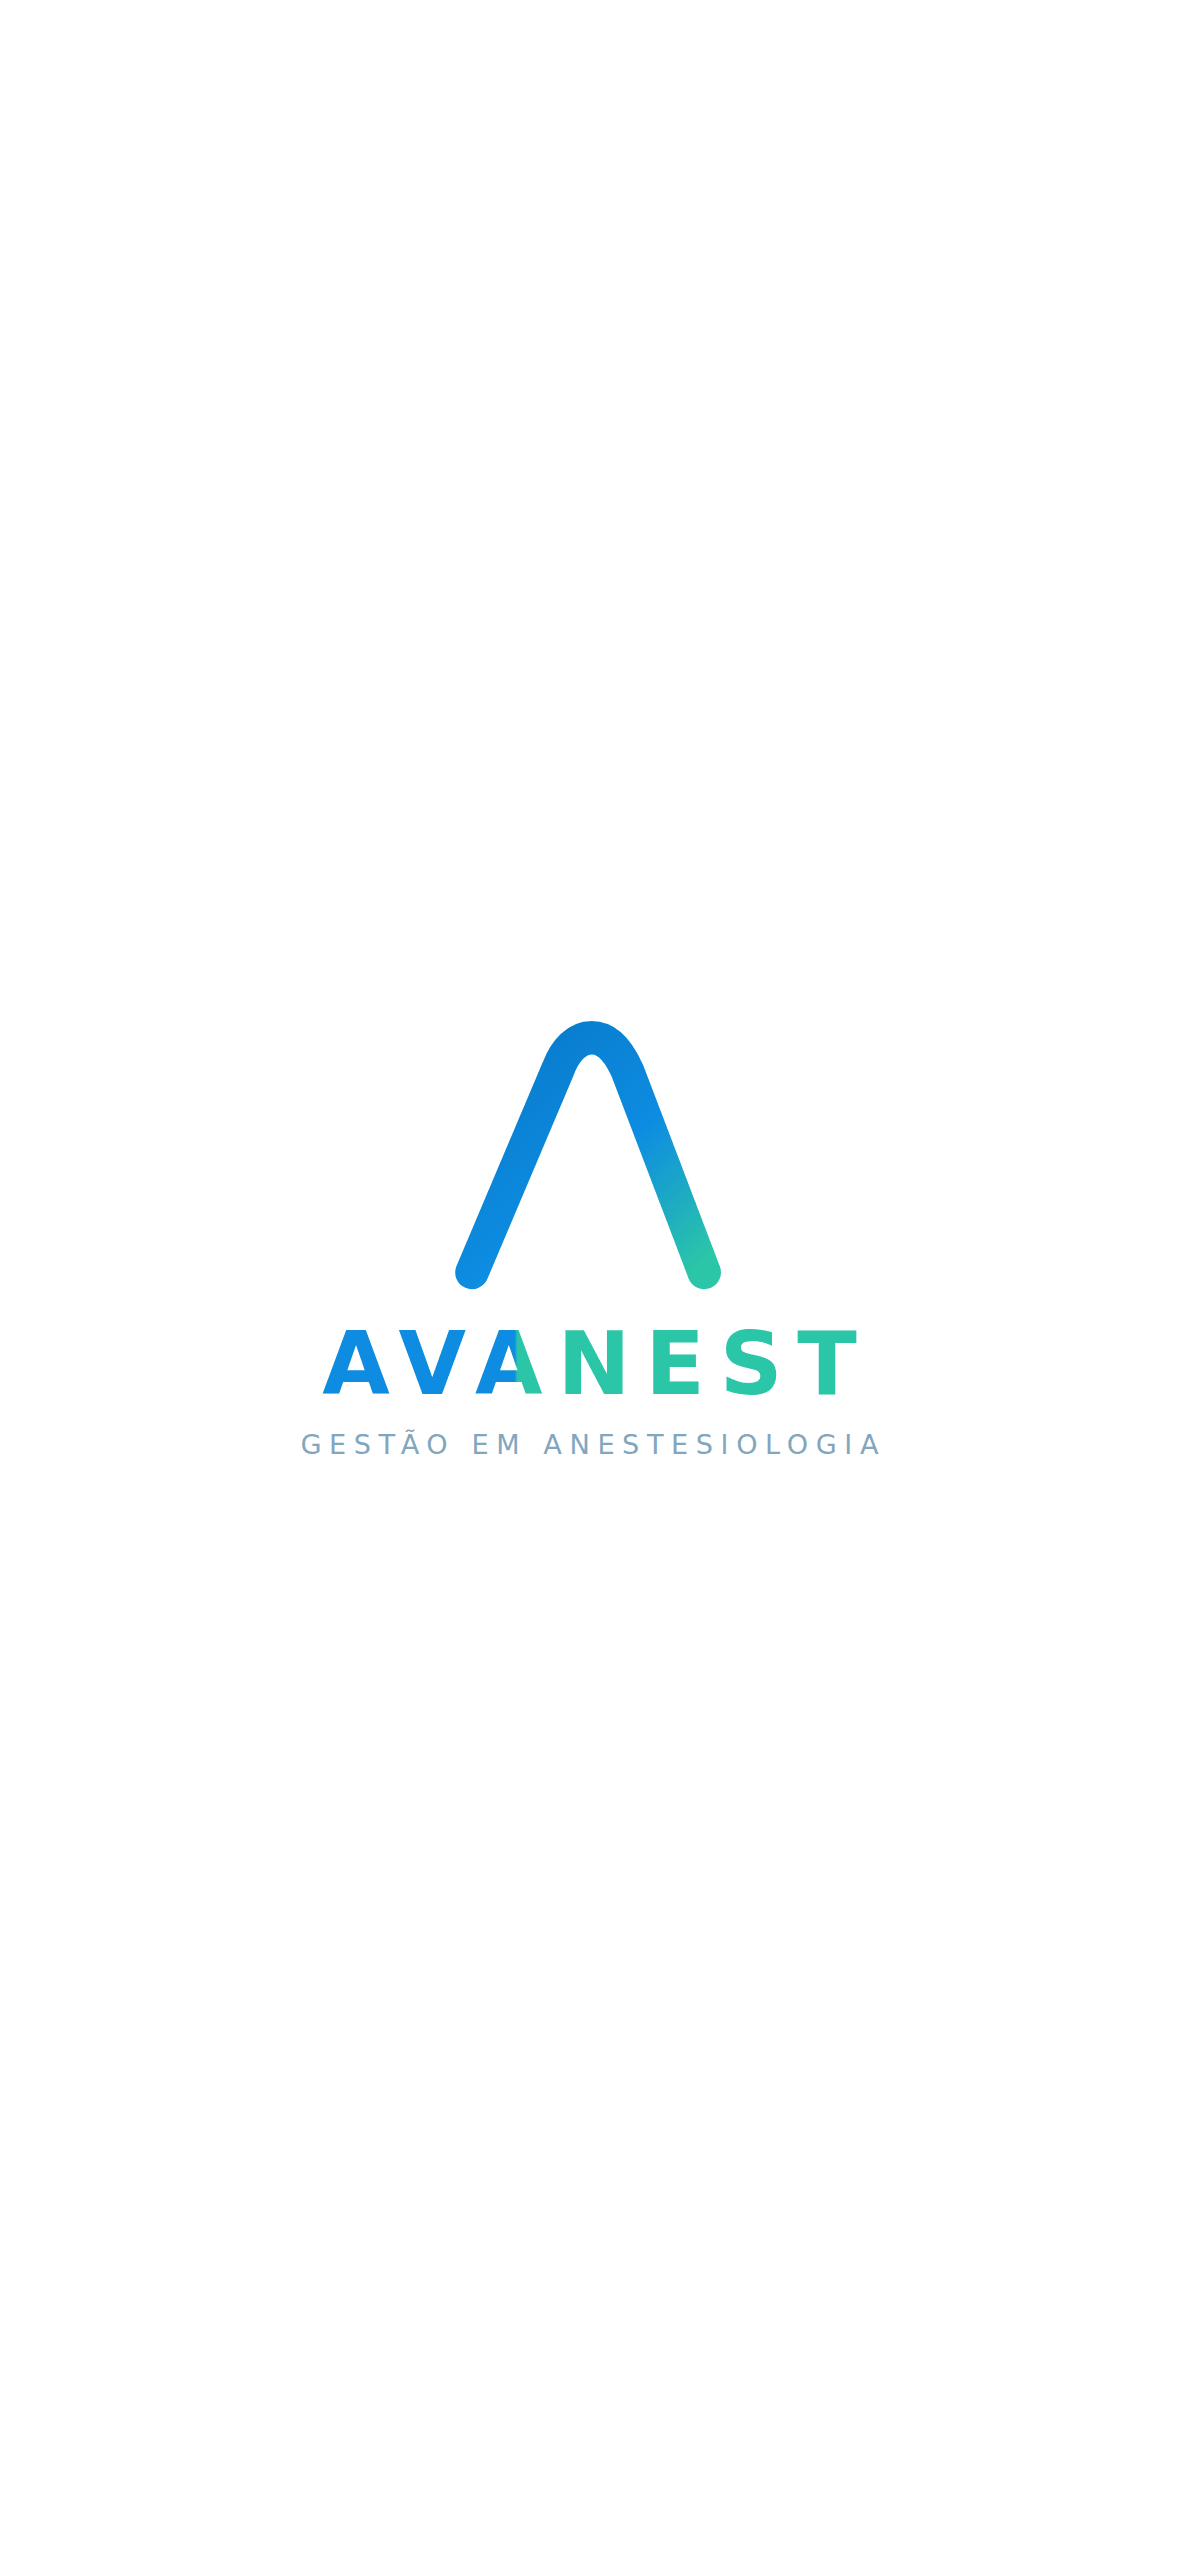
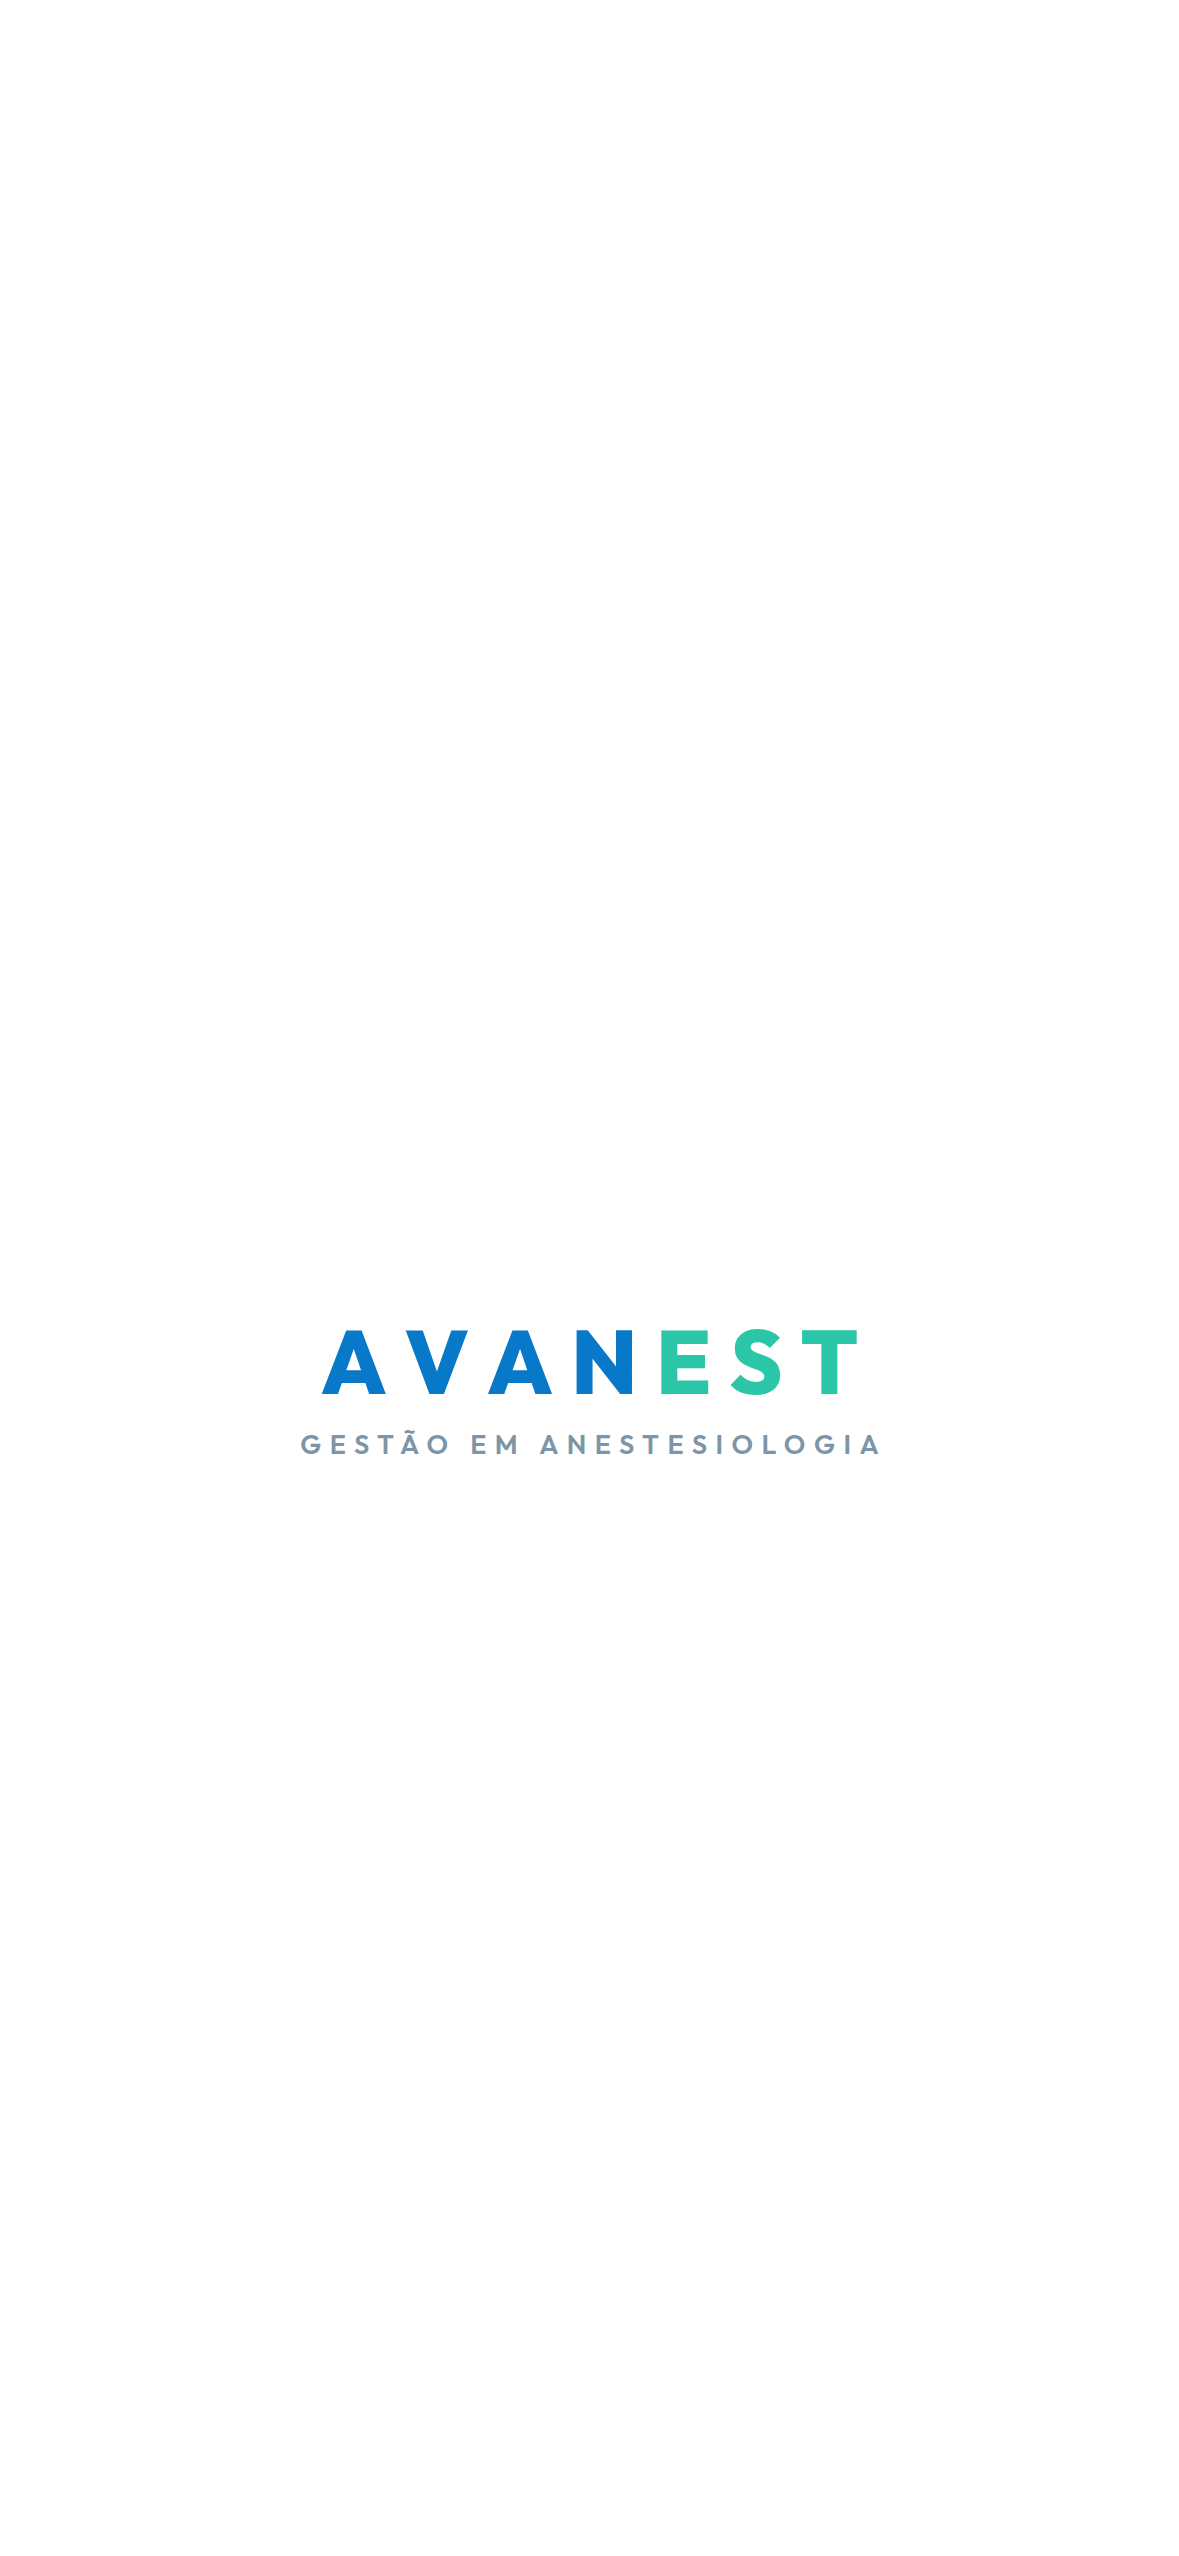
A marca se abre: primeiro o nome, depois o símbolo
O pedido era ver o nome aparecer e o símbolo em seguida. O obstáculo é que a
tela que o iPhone mostra no toque do ícone é uma IMAGEM, e nenhuma plataforma
anima aquilo — está escrito em lib/tela-de-abertura.ts e continua valendo.
Animação de marca só pode ser a primeira coisa que o SITE pinta.

O QUE FAZ A EMENDA DESAPARECER: as 22 imagens do iOS foram regeradas mostrando
SÓ O NOME, que é o primeiro quadro da animação. A sequência é uma só,
atravessando dois programas:

    o iOS desenha o nome  →  o site assume  →  o Λ se desenha por cima

Sem isso, o iOS mostraria a marca pronta e o site logo em seguida a
desmontaria para remontá-la. Leria como falha, não como abertura.

O espaço do Λ fica guardado, vazio, desde o quadro zero. Se ele entrasse
empurrando, o nome escorregaria para baixo bem no meio da emenda — o único
lugar onde o tranco apareceria.

É CSS PURO, e não um componente de cliente: um componente só monta depois da
hidratação, e a pessoa veria o painel e então uma cortina caindo por cima dele.
A cortina também some sem JavaScript nenhum — se o roteiro falhar, a abertura
termina do mesmo jeito e ninguém fica preso atrás dela. Conferido: ao final,
opacidade 0, visibility hidden, e o clique no centro da tela chega na página.

O único JavaScript decide duas coisas, antes da primeira pintura: se esta
sessão já viu a abertura, e se a pessoa entrou pelo ícone. Quem entra pelo
ícone já viu o nome desenhado, então ali o nome entra pronto e só o Λ se
[…]

Changed region(s): [[0.3053, 0.4018, 0.6718, 0.5872], [0.6718, 0.5563, 0.7023, 0.5872]]

diff --git a/app/globals.css b/app/globals.css
@@ -3978,3 +3978,113 @@ input[type="date"]::-webkit-calendar-picker-indicator{margin-inline-start:auto}
 /* A frase que explica a consequência antes do clique. */
 .adminEscalaAviso{grid-column:1/-1;margin:0;font-size:12.5px;line-height:1.5;
   color:var(--cor-tinta-fraca)}
+
+/* ============================================================================
+   A abertura animada da marca
+   ----------------------------------------------------------------------------
+   A ordem e o pedido: PRIMEIRO O NOME, DEPOIS O SIMBOLO. E a razao de o
+   simbolo ja ter o espaco dele reservado desde o quadro zero — se ele
+   entrasse empurrando, o nome escorregaria para baixo no meio da animacao e o
+   olho leria um tranco, nao uma revelacao.
+
+   A emenda com a tela de abertura do iPhone: aquela imagem mostra so o nome,
+   que e exatamente o primeiro quadro daqui. O iOS desenha o nome, o site
+   assume, e o Λ se desenha por cima. Sao dois programas e uma animacao so.
+
+   Tudo em CSS, e nao em JavaScript: a cortina precisa estar no PRIMEIRO quadro
+   pintado, e um componente de cliente so monta depois da hidratacao — a pessoa
+   veria o painel e entao uma cortina caindo por cima dele.
+   ========================================================================== */
+.abertura{position:fixed;inset:0;z-index:9999;display:grid;place-items:center;
+  background:#fff;
+  /* `forwards` e o que faz a cortina sumir SEM JavaScript. Se o roteiro
+     falhar, a abertura termina do mesmo jeito e ninguem fica preso atras. */
+  animation:aberturaSai .5s ease-in 2.15s forwards}
+/* Quem ja viu nesta sessao nao ve de novo. A classe e posta por um roteiro
+   embutido no <head>, antes da primeira pintura — depois dela ja seria tarde,
+   a cortina teria piscado. */
+.semAbertura .abertura{display:none}
+@keyframes aberturaSai{
+  from{opacity:1;visibility:visible}
+  99%{opacity:0;visibility:visible}
+  to{opacity:0;visibility:hidden;pointer-events:none}
+}
+
+/* AS MEDIDAS SAO CALIBRADAS, NAO ESCOLHIDAS. Foram obtidas medindo o logo
+   original da tela de abertura, pixel a pixel, e ajustando estes valores ate a
+   marca desenhada aqui cair sobre ele: simbolo com 22,5% da largura da tela,
+   nome com 45,3% e 65px de altura de caixa, slogan com 48,9%. Chutar "parece
+   igual" produziria uma marca ligeiramente diferente da que ele ja conhece —
+   e o unico lugar onde as duas aparecem coladas e justamente a emenda entre a
+   imagem do iOS e o site, que e onde a diferenca saltaria. */
+.marcaAvanest{display:grid;justify-items:center;gap:0;
+  padding:0 var(--esp-5);max-width:420px;width:100%;
+  /* O conjunto nao fica no meio exato: no logo original ele e um pouco acima,
+     e este deslocamento e a diferenca medida. */
+  transform:translateY(-1.7vh)}
+.marcaSimbolo{width:min(25.9vw,108px);height:auto;display:block}
+.marcaNome{display:flex;justify-content:center;margin:0.35px 0 0;
+  font-size:clamp(23px,7.551vw,32px);font-weight:800;letter-spacing:.1012em;
+  line-height:1;
+  /* O recuo compensa o espacamento entre letras, que sobra depois da ultima e
+     empurraria a palavra inteira meio caractere para a esquerda. */
+  text-indent:.1012em}
+/* As quatro primeiras letras no azul, as tres ultimas no verde: e a marca. O
+   degrade nao serve aqui — texto com degrade recortado some em impressao e em
+   modo de alto contraste, e este nome tambem aparece parado. */
+.marcaNome span:nth-child(-n+4){color:#0879c9}
+.marcaNome span:nth-child(n+5){color:#2bc5a8}
+.marcaSlogan{margin:8.4px 0 0;font-size:clamp(7.5px,2.28vw,9.5px);font-weight:600;
+  line-height:1;letter-spacing:.317em;text-transform:uppercase;color:#7c95a8;
+  text-indent:.317em}
+
+/* --- o quadro zero: o nome invisivel, o simbolo com o espaco ja guardado --- */
+.marcaAvanest.animada .marcaNome span{opacity:0;transform:translateY(10px);
+  animation:aberturaLetra .5s cubic-bezier(.2,.7,.3,1) forwards}
+.marcaAvanest.animada .marcaNome span:nth-child(1){animation-delay:.10s}
+.marcaAvanest.animada .marcaNome span:nth-child(2){animation-delay:.16s}
+.marcaAvanest.animada .marcaNome span:nth-child(3){animation-delay:.22s}
+.marcaAvanest.animada .marcaNome span:nth-child(4){animation-delay:.28s}
+.marcaAvanest.animada .marcaNome span:nth-child(5){animation-delay:.34s}
+.marcaAvanest.animada .marcaNome span:nth-child(6){animation-delay:.40s}
+.marcaAvanest.animada .marcaNome span:nth-child(7){animation-delay:.46s}
+@keyframes aberturaLetra{to{opacity:1;transform:translateY(0)}}
+
+.marcaAvanest.animada .marcaSlogan{opacity:0;
+  animation:aberturaSlogan .55s ease-out .62s forwards}
+@keyframes aberturaSlogan{from{opacity:0;letter-spacing:.45em}
+  to{opacity:1;letter-spacing:.317em}}
+
+/* O Λ se desenha. `stroke-dasharray` vira o traco num risco que corre do
+   comeco ao fim.
+
+   O NUMERO E MEDIDO, nao chutado: getTotalLength() do caminho da 224,23, e o
+   valor aqui e 226 — o minimo que cobre o traco inteiro mais a sobra das
+   pontas arredondadas. Chutar para cima custa caro e de um jeito que nao se
+   vê no codigo: com 320, o desenho so comecaria a aparecer depois que o
+   deslocamento descesse de 224, e o primeiro terco da animacao seria tela
+   parada. Foi exatamente o que aconteceu na primeira versao disto. */
+.marcaAvanest.animada .marcaSimbolo path{stroke-dasharray:226;stroke-dashoffset:226;
+  animation:aberturaTraco .85s cubic-bezier(.4,0,.25,1) .95s forwards}
+@keyframes aberturaTraco{to{stroke-dashoffset:0}}
+
+/* --- chegando pelo icone: o nome ja veio pronto na imagem do iOS ---
+   Quem abre pelo icone acabou de ver o nome desenhado. Repetir a entrada das
+   letras seria montar duas vezes a mesma palavra, e o olho le isso como
+   travamento. Aqui o nome ja entra pronto e so o Λ se desenha — que e
+   exatamente onde a imagem do iOS parou. A cortina tambem sai antes, porque a
+   parte que ela ainda tem para mostrar e mais curta. */
+.vindoDoIcone .abertura{animation-delay:1.35s}
+.vindoDoIcone .marcaAvanest.animada .marcaNome span,
+.vindoDoIcone .marcaAvanest.animada .marcaSlogan{opacity:1;transform:none;animation:none}
+.vindoDoIcone .marcaAvanest.animada .marcaSimbolo path{animation-delay:.15s}
+
+/* Quem pediu menos movimento recebe a marca pronta, e a cortina sai logo. Nao
+   e "sem animacao nenhuma": sumir de uma vez seria um pisca-pisca, que e
+   justamente o que essa preferencia existe para evitar. */
+@media(prefers-reduced-motion:reduce){
+  .abertura{animation:aberturaSai .4s ease-in .5s forwards}
+  .marcaAvanest.animada .marcaNome span,
+  .marcaAvanest.animada .marcaSlogan{opacity:1;transform:none;animation:none}
+  .marcaAvanest.animada .marcaSimbolo path{stroke-dashoffset:0;animation:none}
+}

diff --git a/components/abertura-animada.tsx b/components/abertura-animada.tsx
@@ -1,0 +1,124 @@
+/**
+ * A abertura animada da marca.
+ *
+ * ===========================================================================
+ * POR QUE ELA EXISTE AQUI, E NÃO NA TELA DE ABERTURA DO IPHONE
+ * ===========================================================================
+ * A tela que o iOS mostra no toque do ícone é uma IMAGEM, e nenhuma plataforma
+ * anima aquilo — está escrito em lib/tela-de-abertura.ts, e continua valendo.
+ * Animação de marca, portanto, só pode ser a primeira coisa que o SITE pinta.
+ *
+ * O que torna a emenda invisível é que a imagem do iOS foi regerada para
+ * mostrar SÓ O NOME — o primeiro quadro desta animação. A sequência que a
+ * pessoa vê é uma só, atravessando dois programas diferentes:
+ *
+ *     iOS desenha o nome  →  o site assume  →  o Λ se desenha por cima
+ *
+ * Sem isso, o iOS mostraria a marca inteira e pronta, e o site logo em seguida
+ * a desmontaria para remontá-la: leria como falha, e não como abertura.
+ *
+ * ===========================================================================
+ * POR QUE É CSS PURO, E NÃO UM COMPONENTE DE CLIENTE
+ * ===========================================================================
+ * Um componente de cliente só monta DEPOIS da hidratação. A pessoa veria o
+ * painel por um instante e então uma cortina caindo por cima dele — que é o
+ * oposto de uma abertura.
+ *
+ * Aqui a marcação vem no HTML do servidor e a animação é do CSS, então ela já
+ * está no primeiro quadro pintado. E some sozinha, sem JavaScript nenhum:
+ * `forwards` deixa o último quadro valendo, com `visibility:hidden` e
+ * `pointer-events:none`. Se o JavaScript falhar, a abertura ainda termina e
+ * ninguém fica preso atrás dela.
+ *
+ * O ÚNICO JavaScript é o roteiro embutido abaixo, e ele decide duas coisas: se
+ * esta sessão já viu a abertura, e de onde a pessoa está chegando. Precisa
+ * rodar antes da primeira pintura — daí ser embutido e bloqueante —, porque
+ * decidir isso depois já seria tarde: a cortina teria piscado.
+ */
+
+/**
+ * Quem já viu, não vê de novo.
+ *
+ * `sessionStorage`, e não `localStorage`, e a diferença é o comportamento
+ * inteiro: abrir o aplicativo instalado começa uma sessão nova, então a
+ * abertura toca a cada abertura de verdade — que é quando ela faz sentido.
+ * Navegar entre as telas do site é a mesma sessão, e ali ela não repete. Com
+ * `localStorage` ela tocaria uma vez na vida e nunca mais.
+ *
+ * O try/catch não é decorativo: em navegação privada e com cookies bloqueados,
+ * só de LER o `sessionStorage` alguns navegadores lançam. Sem ele, a exceção
+ * subiria num roteiro bloqueante do <head> e derrubaria a página inteira antes
+ * de qualquer coisa aparecer. Se der erro, a abertura simplesmente toca. São
+ * dois try/catch separados de propósito: uma falha na leitura do armazenamento
+ * não pode levar junto a detecção de onde a pessoa veio.
+ *
+ * E É POR ISSO QUE HÁ UM `display-mode: standalone` AQUI. Quem abre pelo ícone
+ * já viu o nome desenhado — foi a imagem que o iOS mostrou. Repetir a entrada
+ * das letras ali seria montar duas vezes a mesma palavra, e o olho lê isso
+ * como travamento, não como abertura. Nesse caminho o nome já entra pronto e
+ * só o Λ se desenha, que é exatamente onde a imagem do iOS parou. No navegador
+ * comum não houve imagem nenhuma antes, e a animação toca inteira.
+ */
+const ROTEIRO_DA_ABERTURA = `try{
+if(matchMedia('(display-mode: standalone)').matches){document.documentElement.className+=' vindoDoIcone'}
+}catch(e){}
+try{
+if(sessionStorage.getItem('avanest:abertura')){document.documentElement.className+=' semAbertura'}
+else{sessionStorage.setItem('avanest:abertura','1')}
+}catch(e){}`;
+
+export function RoteiroDaAbertura() {
+  return <script dangerouslySetInnerHTML={{ __html: ROTEIRO_DA_ABERTURA }} />;
+}
+
+/**
+ * O Λ da marca — o mesmo traçado da assinatura das folhas impressas.
+ *
+ * Um traço só, e é isso que permite desenhá-lo: `stroke-dasharray` transforma
+ * um caminho aberto num risco que corre do começo ao fim. Duas formas fechadas
+ * não teriam como se desenhar assim, só aparecer.
+ */
+const CAMINHO_DO_LAMBDA = "M15 110 51 25c3-8 8-13 14-13s11 5 15 14l32 84";
+
+export function MarcaAvanest({ animada = true }: { animada?: boolean }) {
+  return (
+    <div className={`marcaAvanest${animada ? " animada" : ""}`}>
+      <svg className="marcaSimbolo" viewBox="0 0 128 128" aria-hidden="true">
+        <defs>
+          <linearGradient id="marcaAvn" x1="18" y1="16" x2="104" y2="112"
+            gradientUnits="userSpaceOnUse">
+            <stop stopColor="#0879c9" />
+            <stop offset=".55" stopColor="#0d8ce1" />
+            <stop offset="1" stopColor="#2bc5a8" />
+          </linearGradient>
+        </defs>
+        <path d={CAMINHO_DO_LAMBDA} fill="none" stroke="url(#marcaAvn)"
+          strokeLinecap="round" strokeLinejoin="round" strokeWidth={14} />
+      </svg>
+      {/* Letra a letra porque elas entram escalonadas. O nome inteiro fica no
+          aria-label: um leitor de tela lendo "A V A N E S T" soletraria a
+          marca, e ninguém chama a empresa assim. */}
+      <p className="marcaNome" aria-label="AVANEST">
+        {[..."AVANEST"].map((letra, i) => (
+          <span key={`${letra}${i}`} aria-hidden="true">{letra}</span>
+        ))}
+      </p>
+      <p className="marcaSlogan">Gestão em anestesiologia</p>
+    </div>
+  );
+}
+
+/**
+ * A cortina.
+ *
+ * `aria-hidden` e sem foco nenhum: para quem usa leitor de tela isto não é
+ * conteúdo, é uma transição. O nome da empresa ele já leu no cabeçalho da
+ * página que está atrás.
+ */
+export function AberturaAnimada() {
+  return (
+    <div className="abertura" aria-hidden="true">
+      <MarcaAvanest />
+    </div>
+  );
+}

diff --git a/app/layout.tsx b/app/layout.tsx
@@ -2,6 +2,7 @@ import type { Metadata } from "next";
 import {
   TELAS_DE_ABERTURA, arquivoDaAbertura, consultaDaAbertura,
 } from "@/lib/tela-de-abertura";
+import { AberturaAnimada, RoteiroDaAbertura } from "@/components/abertura-animada";
 import "./globals.css";
 
 export const metadata: Metadata = {
@@ -69,8 +70,18 @@ export default function RootLayout({ children }: Readonly<{ children: React.Reac
           rel="stylesheet"
           href="https://fonts.googleapis.com/css2?family=Outfit:wght@400;500;600;700;800;900&display=swap"
         />
+        {/* Decide se ESTA sessão já viu a abertura, e tem de decidir antes da
+            primeira pintura — depois dela a cortina já teria piscado. É o
+            único JavaScript da abertura inteira. */}
+        <RoteiroDaAbertura />
       </head>
-      <body>{children}</body>
+      <body>
+        {/* Antes de tudo, e no HTML do servidor: assim a marca está no
+            primeiro quadro pintado, e não caindo por cima de um painel que a
+            pessoa já começou a ler. Some sozinha, sem JavaScript. */}
+        <AberturaAnimada />
+        {children}
+      </body>
     </html>
   );
 }
